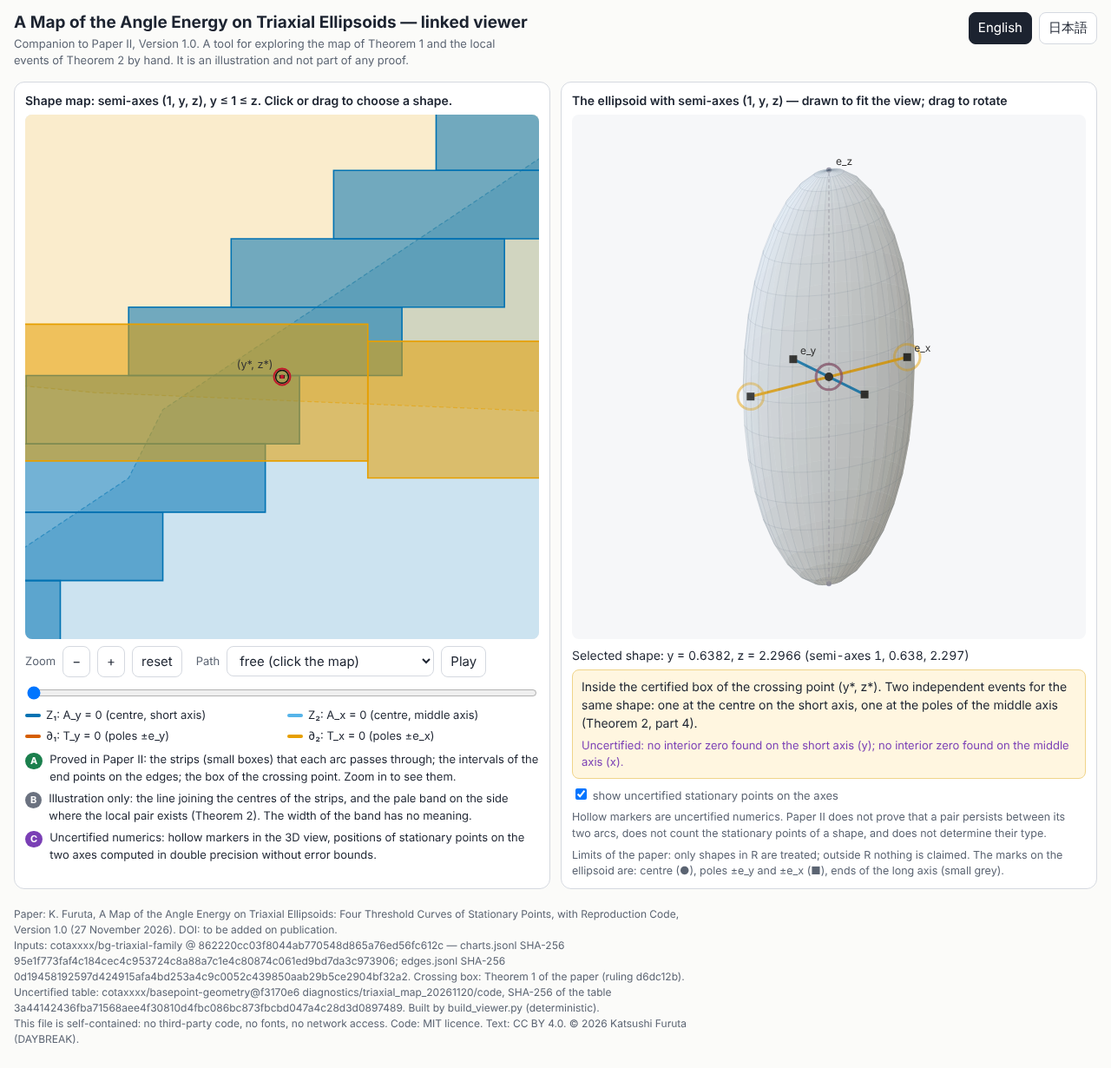
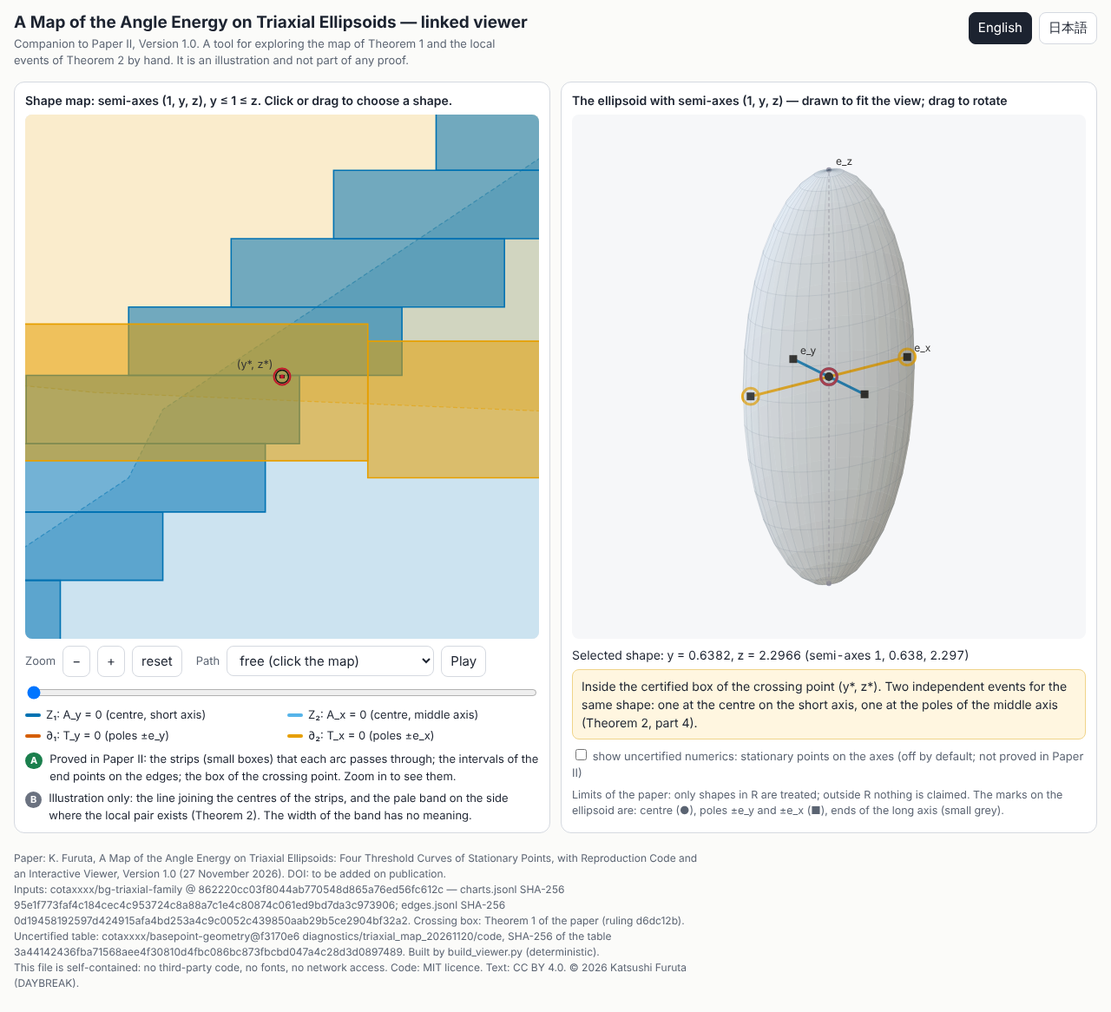
Paper II viewer, fix 1: 'transversally', uncertified layer off by default with an in-picture label, new paper title, README notes
Claude-Session: https://claude.ai/code/session_01G9KpGsvU4kP8626nKD7BmQ

diff --git a/viewer/paper2_viewer.html b/viewer/paper2_viewer.html
@@ -73,7 +73,7 @@ svg text{font:12px system-ui,sans-serif;fill:#333}
     <canvas id="view"></canvas>
     <div id="status"></div>
     <div id="event"></div>
-    <div class="row" id="uncRow"><label><input type="checkbox" id="unc" checked> <span data-t="uncToggle"></span></label></div>
+    <div class="row" id="uncRow"><label><input type="checkbox" id="unc"> <span data-t="uncToggle"></span></label></div>
     <div class="note" data-t="uncNote" id="uncNote"></div>
     <div class="note" data-t="scope"></div>
   </section>
@@ -105,17 +105,18 @@ en:{
  xl:"y  (short semi-axis; middle semi-axis = 1)", yl:"z  (long semi-axis)",
  status:(y,z)=>`Selected shape:  y = ${y.toFixed(4)},  z = ${z.toFixed(4)}    (semi-axes 1, ${y.toFixed(3)}, ${z.toFixed(3)})`,
  evNone:"This shape lies in no certified strip. Paper II makes no statement about the number of stationary points of a single shape.",
- evZ:(n,ax,A)=>`In a certified strip of ${n}. The arc ${n} passes through this strip. When the shape crosses it, exactly one pair of stationary points on the ${ax} is born at the centre or absorbed by it; near the centre the pair exists on the side ${A} > 0 (Theorem 2, part 1).`,
- evD:(n,ax,p,Tn)=>`In a certified strip of ${n}. The arc ${n} passes through this strip. When the shape crosses it, exactly one pair of stationary points on the ${ax} enters or leaves through the poles ${p}; near the poles it is inside on the side ${Tn} < 0 (Theorem 2, part 2).`,
+ evZ:(n,ax,A)=>`In a certified strip of ${n}. The arc ${n} passes through this strip. When the shape crosses the arc transversally, exactly one pair of stationary points on the ${ax} is born at the centre or absorbed by it; near the centre the pair exists on the side ${A} > 0 (Theorem 2, part 1).`,
+ evD:(n,ax,p,Tn)=>`In a certified strip of ${n}. The arc ${n} passes through this strip. When the shape crosses the arc transversally, exactly one pair of stationary points on the ${ax} enters or leaves through the poles ${p}; near the poles it is inside on the side ${Tn} < 0 (Theorem 2, part 2).`,
  short:"short axis (y)", mid:"middle axis (x)",
  evCp:"Prolate threshold c_p on the edge y = 1 (certified interval). Along the edge, a stationary circle in the equatorial plane is born at the centre or absorbed by it (Theorem 2, part 3).",
  evBp:"Prolate threshold b_p on the edge y = 1 (certified interval). Along the edge, a stationary circle in the equatorial plane enters or leaves through the boundary (Theorem 2, part 3).",
  evX:"Inside the certified box of the crossing point (y*, z*). Two independent events for the same shape: one at the centre on the short axis, one at the poles of the middle axis (Theorem 2, part 4).",
- uncToggle:"show uncertified stationary points on the axes",
+ uncToggle:"show uncertified numerics: stationary points on the axes (off by default; not proved in Paper II)",
+ uncMark:"Uncertified numerics — not proved in Paper II",
  uncNote:"Hollow markers are uncertified numerics. Paper II does not prove that a pair persists between its two arcs, does not count the stationary points of a shape, and does not determine their type.",
  uncTxt:(a,b)=>`Uncertified: ${a}; ${b}.`, uncY:r=>`short-axis pair at ±${r.toFixed(3)}·y`, uncX:r=>`middle-axis pair at ±${r.toFixed(3)}`, uncC:r=>`stationary circle of radius ${r.toFixed(3)}`, uncNo:n=>`no interior zero found on the ${n}`,
  scope:"Limits of the paper: only shapes in R are treated; outside R nothing is claimed. The marks on the ellipsoid are: centre (●), poles ±e_y and ±e_x (■), ends of the long axis (small grey).",
- foot1:"Paper: K. Furuta, A Map of the Angle Energy on Triaxial Ellipsoids: Four Threshold Curves of Stationary Points, with Reproduction Code, Version 1.0 (27 November 2026). DOI: to be added on publication.",
+ foot1:"Paper: K. Furuta, A Map of the Angle Energy on Triaxial Ellipsoids: Four Threshold Curves of Stationary Points, with Reproduction Code and an Interactive Viewer, Version 1.0 (27 November 2026). DOI: to be added on publication.",
  foot3:"This file is self-contained: no third-party code, no fonts, no network access. Code: MIT licence. Text: CC BY 4.0. © 2026 Katsushi Furuta (DAYBREAK)."
 },
 ja:{
@@ -134,17 +135,18 @@ ja:{
  xl:"y（短い半軸。中間の半軸 = 1）", yl:"z（長い半軸）",
  status:(y,z)=>`選んだ形：y = ${y.toFixed(4)}、z = ${z.toFixed(4)}　（半軸 1, ${y.toFixed(3)}, ${z.toFixed(3)}）`,
  evNone:"この形は、どの弧の証明済みの帯にも入っていません。論文 II は、一つひとつの形の停留点の個数については何も主張しません。",
- evZ:(n,ax,A)=>`${n} の証明済みの帯の中です。弧 ${n} はこの帯を通ります。形がこの弧を横切るとき、${ax}の上の停留点がちょうど一対、中心で生まれるか中心に吸収されます。中心の近くで対があるのは ${A} > 0 の側です（定理 2 の 1）。`,
- evD:(n,ax,p,Tn)=>`${n} の証明済みの帯の中です。弧 ${n} はこの帯を通ります。形がこの弧を横切るとき、${ax}の上の停留点がちょうど一対、極 ${p} を通って出入りします。極の近くで対が内部にあるのは ${Tn} < 0 の側です（定理 2 の 2）。`,
+ evZ:(n,ax,A)=>`${n} の証明済みの帯の中です。弧 ${n} はこの帯を通ります。形がこの弧を横断的に横切るとき、${ax}の上の停留点がちょうど一対、中心で生まれるか中心に吸収されます。中心の近くで対があるのは ${A} > 0 の側です（定理 2 の 1）。`,
+ evD:(n,ax,p,Tn)=>`${n} の証明済みの帯の中です。弧 ${n} はこの帯を通ります。形がこの弧を横断的に横切るとき、${ax}の上の停留点がちょうど一対、極 ${p} を通って出入りします。極の近くで対が内部にあるのは ${Tn} < 0 の側です（定理 2 の 2）。`,
  short:"短軸（y）", mid:"中間軸（x）",
  evCp:"辺 y = 1 の上の扁長側の閾値 c_p（証明済みの区間）。形が辺に沿って動くとき、赤道面の停留円が中心で生まれるか中心に吸収されます（定理 2 の 3）。",
  evBp:"辺 y = 1 の上の扁長側の閾値 b_p（証明済みの区間）。形が辺に沿って動くとき、赤道面の停留円が境界を通って出入りします（定理 2 の 3）。",
  evX:"交点 (y*, z*) の証明済みの箱の中です。同じ形で二つの独立な出来事が起こります。中心での短軸の出来事と、中間軸の極での出来事です（定理 2 の 4）。",
- uncToggle:"軸の上の停留点（保証のない数値）を表示する",
+ uncToggle:"保証のない数値を表示する：軸の上の停留点（既定では非表示。論文 II は未証明）",
+ uncMark:"保証のない数値（論文 II は未証明）",
  uncNote:"白抜きの印は保証のない数値です。論文 II は、対が二本の弧のあいだで存続することを証明していません。形ごとの停留点の個数も、停留点の種類も決めていません。",
  uncTxt:(a,b)=>`保証のない数値：${a}、${b}。`, uncY:r=>`短軸の対 ±${r.toFixed(3)}·y`, uncX:r=>`中間軸の対 ±${r.toFixed(3)}`, uncC:r=>`半径 ${r.toFixed(3)} の停留円`, uncNo:n=>`${n}の上に内部の零点なし`,
  scope:"論文の範囲：R の中の形だけを扱います。R の外については何も主張しません。楕円体の上の印は、中心（●）、極 ±e_y と ±e_x（■）、長軸の端（小さな灰色）です。",
- foot1:"論文：古田 勝士（K. Furuta）, A Map of the Angle Energy on Triaxial Ellipsoids: Four Threshold Curves of Stationary Points, with Reproduction Code, Version 1.0（2026年11月27日）。DOI：公開後に記入。",
+ foot1:"論文：古田 勝士（K. Furuta）「三軸楕円体の角度エネルギー地図 ― 停留点が出入りする四本の境目（再現コード・ビューア付き）」（A Map of the Angle Energy on Triaxial Ellipsoids: Four Threshold Curves of Stationary Points, with Reproduction Code and an Interactive Viewer）, Version 1.0（2026年11月27日）。DOI：公開後に記入。",
  foot3:"このファイルは単体で完結しています。第三者のコード、フォント、外部への通信はありません。コード：MIT ライセンス。文章：CC BY 4.0。© 2026 古田 勝士（DAYBREAK）。"
 }};
 let lang = "en";
@@ -295,6 +297,11 @@ function drawView(time){
   for (const k of quads) if (k.front) { fillQ(k, `rgba(${Math.round(120*k.sh+110)},${Math.round(140*k.sh+100)},${Math.round(175*k.sh+75)},0.26)`); }
   ctx.strokeStyle = "rgba(40,60,90,0.16)"; ctx.lineWidth = 0.6;
   for (const k of quads) if (k.front) { ctx.beginPath(); ctx.moveTo(k.q[0][0], k.q[0][1]); ctx.lineTo(k.q[1][0], k.q[1][1]); ctx.lineTo(k.q[2][0], k.q[2][1]); ctx.stroke(); }
+  if (DATA.unc && $("unc").checked) {     // the label travels with the picture if only the picture is copied
+    const m = T[lang].uncMark; ctx.font = "bold 13px system-ui,sans-serif"; const tw = ctx.measureText(m).width;
+    ctx.fillStyle = "rgba(255,255,255,0.88)"; ctx.fillRect(8, 8, tw + 16, 24); ctx.strokeStyle = "#7a3fb5"; ctx.lineWidth = 1.5; ctx.strokeRect(8, 8, tw + 16, 24);
+    ctx.fillStyle = "#7a3fb5"; ctx.fillText(m, 16, 25);
+  }
   ctx.fillStyle = "#333"; ctx.font = "12px system-ui,sans-serif";
   const lab = (p, s) => { const A = P(p); ctx.fillText(s, A[0] + 8, A[1] - 6); };
   lab([a,0,0], "e_x"); lab([0,b,0], "e_y"); lab([0,0,c], "e_z");
@@ -322,8 +329,11 @@ function applyLang(){
   $("arcs").innerHTML = ""; for (const q of Q) { const s = document.createElement("span"); s.innerHTML = `<i style="background:${COL[q]}"></i>`; s.appendChild(document.createTextNode(t.arc[q])); $("arcs").appendChild(s); }
   $("play").textContent = S.playing ? t.pause : t.play;
   const m = DATA.meta; $("foot2").textContent = (lang === "en" ? "Inputs: " : "入力：") + `${m.repo} @ ${m.ledger_commit} — charts.jsonl SHA-256 ${m.charts_sha256}; edges.jsonl SHA-256 ${m.edges_sha256}. ` + (lang === "en" ? "Crossing box: Theorem 1 of the paper (ruling " : "交点の箱：論文の定理 1（裁定 ") + m.crossing_ruling + (lang === "en" ? "). " : "）。") + (DATA.unc ? (lang === "en" ? "Uncertified table: " : "保証のない数値の表：") + m.unc_source + ". " : "") + (lang === "en" ? "Built by build_viewer.py (deterministic)." : "build_viewer.py で生成（決定的）。");
-  if (!DATA.unc) { $("uncRow").style.display = "none"; $("legCrow").style.display = "none"; $("uncNote").style.display = "none"; }
-  drawMapOverlay(); updateText();
+  syncUnc(); drawMapOverlay(); updateText();
+}
+function syncUnc(){
+  const on = !!DATA.unc && $("unc").checked;
+  $("uncRow").style.display = DATA.unc ? "" : "none"; $("legCrow").style.display = on ? "" : "none"; $("uncNote").style.display = on ? "" : "none";
 }
 // ---------- interaction
 function setShape(y, z){ S.y = clamp(y, 0.25, 1); S.z = clamp(z, 1, 7); drawMapOverlay(); updateText(); }
@@ -344,7 +354,7 @@ $("slider").oninput = e => { if (S.path === 0) { S.path = 1; $("path").value = 1
 function stop(){ S.playing = false; $("play").textContent = T[lang].play; }
 $("play").onclick = () => { if (S.playing) return stop(); if (S.path === 0) { S.path = 3; $("path").value = 3; } if (S.t >= 1) S.t = 0; S.playing = true; $("play").textContent = T[lang].pause; };
 $("bEn").onclick = () => { lang = "en"; applyLang(); }; $("bJa").onclick = () => { lang = "ja"; applyLang(); };
-$("unc").onchange = () => updateText();
+$("unc").onchange = () => { syncUnc(); lastUnc = ""; updateText(); };
 let last = 0;
 function frame(time){
   if (S.playing) { S.t = Math.min(1, S.t + (time - last)/16000); $("slider").value = Math.round(S.t*1000); const p = onPath(S.path, S.t); S.y = p[0]; S.z = p[1]; drawMapOverlay(); if (S.t >= 1) stop(); }

diff --git a/viewer/template.html b/viewer/template.html
@@ -73,7 +73,7 @@ svg text{font:12px system-ui,sans-serif;fill:#333}
     <canvas id="view"></canvas>
     <div id="status"></div>
     <div id="event"></div>
-    <div class="row" id="uncRow"><label><input type="checkbox" id="unc" checked> <span data-t="uncToggle"></span></label></div>
+    <div class="row" id="uncRow"><label><input type="checkbox" id="unc"> <span data-t="uncToggle"></span></label></div>
     <div class="note" data-t="uncNote" id="uncNote"></div>
     <div class="note" data-t="scope"></div>
   </section>
@@ -105,17 +105,18 @@ en:{
  xl:"y  (short semi-axis; middle semi-axis = 1)", yl:"z  (long semi-axis)",
  status:(y,z)=>`Selected shape:  y = ${y.toFixed(4)},  z = ${z.toFixed(4)}    (semi-axes 1, ${y.toFixed(3)}, ${z.toFixed(3)})`,
  evNone:"This shape lies in no certified strip. Paper II makes no statement about the number of stationary points of a single shape.",
- evZ:(n,ax,A)=>`In a certified strip of ${n}. The arc ${n} passes through this strip. When the shape crosses it, exactly one pair of stationary points on the ${ax} is born at the centre or absorbed by it; near the centre the pair exists on the side ${A} > 0 (Theorem 2, part 1).`,
- evD:(n,ax,p,Tn)=>`In a certified strip of ${n}. The arc ${n} passes through this strip. When the shape crosses it, exactly one pair of stationary points on the ${ax} enters or leaves through the poles ${p}; near the poles it is inside on the side ${Tn} < 0 (Theorem 2, part 2).`,
+ evZ:(n,ax,A)=>`In a certified strip of ${n}. The arc ${n} passes through this strip. When the shape crosses the arc transversally, exactly one pair of stationary points on the ${ax} is born at the centre or absorbed by it; near the centre the pair exists on the side ${A} > 0 (Theorem 2, part 1).`,
+ evD:(n,ax,p,Tn)=>`In a certified strip of ${n}. The arc ${n} passes through this strip. When the shape crosses the arc transversally, exactly one pair of stationary points on the ${ax} enters or leaves through the poles ${p}; near the poles it is inside on the side ${Tn} < 0 (Theorem 2, part 2).`,
  short:"short axis (y)", mid:"middle axis (x)",
  evCp:"Prolate threshold c_p on the edge y = 1 (certified interval). Along the edge, a stationary circle in the equatorial plane is born at the centre or absorbed by it (Theorem 2, part 3).",
  evBp:"Prolate threshold b_p on the edge y = 1 (certified interval). Along the edge, a stationary circle in the equatorial plane enters or leaves through the boundary (Theorem 2, part 3).",
  evX:"Inside the certified box of the crossing point (y*, z*). Two independent events for the same shape: one at the centre on the short axis, one at the poles of the middle axis (Theorem 2, part 4).",
- uncToggle:"show uncertified stationary points on the axes",
+ uncToggle:"show uncertified numerics: stationary points on the axes (off by default; not proved in Paper II)",
+ uncMark:"Uncertified numerics — not proved in Paper II",
  uncNote:"Hollow markers are uncertified numerics. Paper II does not prove that a pair persists between its two arcs, does not count the stationary points of a shape, and does not determine their type.",
  uncTxt:(a,b)=>`Uncertified: ${a}; ${b}.`, uncY:r=>`short-axis pair at ±${r.toFixed(3)}·y`, uncX:r=>`middle-axis pair at ±${r.toFixed(3)}`, uncC:r=>`stationary circle of radius ${r.toFixed(3)}`, uncNo:n=>`no interior zero found on the ${n}`,
  scope:"Limits of the paper: only shapes in R are treated; outside R nothing is claimed. The marks on the ellipsoid are: centre (●), poles ±e_y and ±e_x (■), ends of the long axis (small grey).",
- foot1:"Paper: K. Furuta, A Map of the Angle Energy on Triaxial Ellipsoids: Four Threshold Curves of Stationary Points, with Reproduction Code, Version 1.0 (27 November 2026). DOI: to be added on publication.",
+ foot1:"Paper: K. Furuta, A Map of the Angle Energy on Triaxial Ellipsoids: Four Threshold Curves of Stationary Points, with Reproduction Code and an Interactive Viewer, Version 1.0 (27 November 2026). DOI: to be added on publication.",
  foot3:"This file is self-contained: no third-party code, no fonts, no network access. Code: MIT licence. Text: CC BY 4.0. © 2026 Katsushi Furuta (DAYBREAK)."
 },
 ja:{
@@ -134,17 +135,18 @@ ja:{
  xl:"y（短い半軸。中間の半軸 = 1）", yl:"z（長い半軸）",
  status:(y,z)=>`選んだ形：y = ${y.toFixed(4)}、z = ${z.toFixed(4)}　（半軸 1, ${y.toFixed(3)}, ${z.toFixed(3)}）`,
  evNone:"この形は、どの弧の証明済みの帯にも入っていません。論文 II は、一つひとつの形の停留点の個数については何も主張しません。",
- evZ:(n,ax,A)=>`${n} の証明済みの帯の中です。弧 ${n} はこの帯を通ります。形がこの弧を横切るとき、${ax}の上の停留点がちょうど一対、中心で生まれるか中心に吸収されます。中心の近くで対があるのは ${A} > 0 の側です（定理 2 の 1）。`,
- evD:(n,ax,p,Tn)=>`${n} の証明済みの帯の中です。弧 ${n} はこの帯を通ります。形がこの弧を横切るとき、${ax}の上の停留点がちょうど一対、極 ${p} を通って出入りします。極の近くで対が内部にあるのは ${Tn} < 0 の側です（定理 2 の 2）。`,
+ evZ:(n,ax,A)=>`${n} の証明済みの帯の中です。弧 ${n} はこの帯を通ります。形がこの弧を横断的に横切るとき、${ax}の上の停留点がちょうど一対、中心で生まれるか中心に吸収されます。中心の近くで対があるのは ${A} > 0 の側です（定理 2 の 1）。`,
+ evD:(n,ax,p,Tn)=>`${n} の証明済みの帯の中です。弧 ${n} はこの帯を通ります。形がこの弧を横断的に横切るとき、${ax}の上の停留点がちょうど一対、極 ${p} を通って出入りします。極の近くで対が内部にあるのは ${Tn} < 0 の側です（定理 2 の 2）。`,
  short:"短軸（y）", mid:"中間軸（x）",
  evCp:"辺 y = 1 の上の扁長側の閾値 c_p（証明済みの区間）。形が辺に沿って動くとき、赤道面の停留円が中心で生まれるか中心に吸収されます（定理 2 の 3）。",
  evBp:"辺 y = 1 の上の扁長側の閾値 b_p（証明済みの区間）。形が辺に沿って動くとき、赤道面の停留円が境界を通って出入りします（定理 2 の 3）。",
  evX:"交点 (y*, z*) の証明済みの箱の中です。同じ形で二つの独立な出来事が起こります。中心での短軸の出来事と、中間軸の極での出来事です（定理 2 の 4）。",
- uncToggle:"軸の上の停留点（保証のない数値）を表示する",
+ uncToggle:"保証のない数値を表示する：軸の上の停留点（既定では非表示。論文 II は未証明）",
+ uncMark:"保証のない数値（論文 II は未証明）",
  uncNote:"白抜きの印は保証のない数値です。論文 II は、対が二本の弧のあいだで存続することを証明していません。形ごとの停留点の個数も、停留点の種類も決めていません。",
  uncTxt:(a,b)=>`保証のない数値：${a}、${b}。`, uncY:r=>`短軸の対 ±${r.toFixed(3)}·y`, uncX:r=>`中間軸の対 ±${r.toFixed(3)}`, uncC:r=>`半径 ${r.toFixed(3)} の停留円`, uncNo:n=>`${n}の上に内部の零点なし`,
  scope:"論文の範囲：R の中の形だけを扱います。R の外については何も主張しません。楕円体の上の印は、中心（●）、極 ±e_y と ±e_x（■）、長軸の端（小さな灰色）です。",
- foot1:"論文：古田 勝士（K. Furuta）, A Map of the Angle Energy on Triaxial Ellipsoids: Four Threshold Curves of Stationary Points, with Reproduction Code, Version 1.0（2026年11月27日）。DOI：公開後に記入。",
+ foot1:"論文：古田 勝士（K. Furuta）「三軸楕円体の角度エネルギー地図 ― 停留点が出入りする四本の境目（再現コード・ビューア付き）」（A Map of the Angle Energy on Triaxial Ellipsoids: Four Threshold Curves of Stationary Points, with Reproduction Code and an Interactive Viewer）, Version 1.0（2026年11月27日）。DOI：公開後に記入。",
  foot3:"このファイルは単体で完結しています。第三者のコード、フォント、外部への通信はありません。コード：MIT ライセンス。文章：CC BY 4.0。© 2026 古田 勝士（DAYBREAK）。"
 }};
 let lang = "en";
@@ -295,6 +297,11 @@ function drawView(time){
   for (const k of quads) if (k.front) { fillQ(k, `rgba(${Math.round(120*k.sh+110)},${Math.round(140*k.sh+100)},${Math.round(175*k.sh+75)},0.26)`); }
   ctx.strokeStyle = "rgba(40,60,90,0.16)"; ctx.lineWidth = 0.6;
   for (const k of quads) if (k.front) { ctx.beginPath(); ctx.moveTo(k.q[0][0], k.q[0][1]); ctx.lineTo(k.q[1][0], k.q[1][1]); ctx.lineTo(k.q[2][0], k.q[2][1]); ctx.stroke(); }
+  if (DATA.unc && $("unc").checked) {     // the label travels with the picture if only the picture is copied
+    const m = T[lang].uncMark; ctx.font = "bold 13px system-ui,sans-serif"; const tw = ctx.measureText(m).width;
+    ctx.fillStyle = "rgba(255,255,255,0.88)"; ctx.fillRect(8, 8, tw + 16, 24); ctx.strokeStyle = "#7a3fb5"; ctx.lineWidth = 1.5; ctx.strokeRect(8, 8, tw + 16, 24);
+    ctx.fillStyle = "#7a3fb5"; ctx.fillText(m, 16, 25);
+  }
   ctx.fillStyle = "#333"; ctx.font = "12px system-ui,sans-serif";
   const lab = (p, s) => { const A = P(p); ctx.fillText(s, A[0] + 8, A[1] - 6); };
   lab([a,0,0], "e_x"); lab([0,b,0], "e_y"); lab([0,0,c], "e_z");
@@ -322,8 +329,11 @@ function applyLang(){
   $("arcs").innerHTML = ""; for (const q of Q) { const s = document.createElement("span"); s.innerHTML = `<i style="background:${COL[q]}"></i>`; s.appendChild(document.createTextNode(t.arc[q])); $("arcs").appendChild(s); }
   $("play").textContent = S.playing ? t.pause : t.play;
   const m = DATA.meta; $("foot2").textContent = (lang === "en" ? "Inputs: " : "入力：") + `${m.repo} @ ${m.ledger_commit} — charts.jsonl SHA-256 ${m.charts_sha256}; edges.jsonl SHA-256 ${m.edges_sha256}. ` + (lang === "en" ? "Crossing box: Theorem 1 of the paper (ruling " : "交点の箱：論文の定理 1（裁定 ") + m.crossing_ruling + (lang === "en" ? "). " : "）。") + (DATA.unc ? (lang === "en" ? "Uncertified table: " : "保証のない数値の表：") + m.unc_source + ". " : "") + (lang === "en" ? "Built by build_viewer.py (deterministic)." : "build_viewer.py で生成（決定的）。");
-  if (!DATA.unc) { $("uncRow").style.display = "none"; $("legCrow").style.display = "none"; $("uncNote").style.display = "none"; }
-  drawMapOverlay(); updateText();
+  syncUnc(); drawMapOverlay(); updateText();
+}
+function syncUnc(){
+  const on = !!DATA.unc && $("unc").checked;
+  $("uncRow").style.display = DATA.unc ? "" : "none"; $("legCrow").style.display = on ? "" : "none"; $("uncNote").style.display = on ? "" : "none";
 }
 // ---------- interaction
 function setShape(y, z){ S.y = clamp(y, 0.25, 1); S.z = clamp(z, 1, 7); drawMapOverlay(); updateText(); }
@@ -344,7 +354,7 @@ $("slider").oninput = e => { if (S.path === 0) { S.path = 1; $("path").value = 1
 function stop(){ S.playing = false; $("play").textContent = T[lang].play; }
 $("play").onclick = () => { if (S.playing) return stop(); if (S.path === 0) { S.path = 3; $("path").value = 3; } if (S.t >= 1) S.t = 0; S.playing = true; $("play").textContent = T[lang].pause; };
 $("bEn").onclick = () => { lang = "en"; applyLang(); }; $("bJa").onclick = () => { lang = "ja"; applyLang(); };
-$("unc").onchange = () => updateText();
+$("unc").onchange = () => { syncUnc(); lastUnc = ""; updateText(); };
 let last = 0;
 function frame(time){
   if (S.playing) { S.t = Math.min(1, S.t + (time - last)/16000); $("slider").value = Math.round(S.t*1000); const p = onPath(S.path, S.t); S.y = p[0]; S.z = p[1]; drawMapOverlay(); if (S.t >= 1) stop(); }

diff --git a/viewer/checks/browser_check.js b/viewer/checks/browser_check.js
@@ -27,6 +27,9 @@ const path = require('path'), fs = require('fs');
         V.setShape(0.8, 1.6); e = V.events(); r.generic_point = { any: Object.values(e).some(Boolean), text: document.getElementById('event').textContent.slice(0, 60) };
         V.setShape(0.1, 9); r.clamped_to_R = [V.S.y, V.S.z];
         r.strip_rects_in_svg = document.querySelectorAll('#map g rect').length;
+        const box = document.getElementById('unc'), vis = id => getComputedStyle(document.getElementById(id)).display !== 'none';
+        V.setShape(0.6, 2.05);
+        r.uncertified_default = { checked: box.checked, legend_C_visible: vis('legCrow'), note_visible: vis('uncNote') };
         return r;
       });
     }
@@ -37,7 +40,12 @@ const path = require('path'), fs = require('fs');
       const f = `${name}_${lang}.png`; await page.screenshot({ path: path.join(out, f), fullPage: true }); report.screens.push(f);
     }
     if (name === 'desktop') {
-      await page.click('#bEn');
+      await page.click('#bEn'); await page.waitForTimeout(200);
+      report.functional.uncertified_default.event_text_has_uncertified_line = await page.evaluate(() => /Uncertified/.test(document.getElementById('event').textContent));
+      await page.check('#unc'); await page.waitForTimeout(300);
+      report.functional.uncertified_checked = await page.evaluate(() => ({ legend_C_visible: getComputedStyle(document.getElementById('legCrow')).display !== 'none', note_visible: getComputedStyle(document.getElementById('uncNote')).display !== 'none', event_text_has_uncertified_line: /Uncertified/.test(document.getElementById('event').textContent) }));
+      await page.screenshot({ path: path.join(out, 'desktop_en_uncertified_on.png'), fullPage: true }); report.screens.push('desktop_en_uncertified_on.png');
+      await page.uncheck('#unc'); await page.waitForTimeout(200);
       await page.evaluate(() => { const D = window.__viewer.DATA; window.__viewer.setShape((D.cross.y[0] + D.cross.y[1]) / 2, (D.cross.z[0] + D.cross.z[1]) / 2); });
       await page.click('#zIn'); await page.click('#zIn'); await page.click('#zIn'); await page.waitForTimeout(250);
       await page.screenshot({ path: path.join(out, 'desktop_en_zoom64_crossing.png'), fullPage: true }); report.screens.push('desktop_en_zoom64_crossing.png');

diff --git a/viewer/README.md b/viewer/README.md
@@ -1,5 +1,7 @@
 # 論文 II の連動ビューア
 
+論文：A Map of the Angle Energy on Triaxial Ellipsoids: Four Threshold Curves of Stationary Points, with Reproduction Code and an Interactive Viewer（三軸楕円体の角度エネルギー地図 ― 停留点が出入りする四本の境目（再現コード・ビューア付き））
+
 2026-11-27 ／ Claude Code ／ 依頼：chat「Claude Code への依頼書：論文 II の連動ビューア（デモソフト）の完成」
 
 `paper2_viewer.html` を開くと動く。1 つのファイルで完結し、外部の読み込みはない。大きさは約 107 KB。
@@ -20,9 +22,11 @@
 |---|---|---|
 | A　証明済み | 各弧が通る帯の箱（Z₁ 276、Z₂ 154、∂₁ 111、∂₂ 71 本）、辺の上の端点の区間 8 つ、交点の箱 | v2 の台帳の `charts.jsonl`（status = CHART）と `edges.jsonl`（root_interval）の、正確な二進有理数。交点の箱は論文 II v1.0 の定理 1 の区間（裁定 `d6dc12b`） |
 | B　説明用 | 帯の中心を結んだ破線、対がある側を示す薄い帯 | 線は帯の中心を鎖の順につないだもの。薄い帯の向きは定理 2（中心は A_i > 0 の側、極は T_i < 0 の側）で、幅は論文の図 2 と同じ値。幅に意味はない |
-| C　保証のない数値 | 3D 表示の白抜きの印（軸の上の停留点の位置） | `uncertified_axis_table.py`。倍精度、誤差評価なし。任意の項目で、チェックを外せば消える |
+| C　保証のない数値 | 3D 表示の白抜きの印（軸の上の停留点の位置） | `uncertified_axis_table.py`。倍精度、誤差評価なし。**既定では非表示**（Judge 裁定）。チェックを入れたときだけ、印、凡例 C、注記、出来事の欄の「Uncertified」の行が出る。表示しているあいだは、3D の絵の中にも「Uncertified numerics — not proved in Paper II／保証のない数値（論文 II は未証明）」と描く |
 
 選んだ形が帯の箱の中にあるとき、右の面で、定理 2 のどの出来事の場所かを強調する（Z₁・Z₂ は中心とその軸、∂₁・∂₂ はその極、辺 y = 1 の c_p・b_p は赤道面の円、交点の箱は中心と極の両方）。文面は「この帯を弧が通る」「形が弧を横切るとき、対がちょうど一対、出入りする」までで、その形が弧の上にあるとは言わない。
+
+左の辺 y = 1/4 の上の二つの印（Z₂ と ∂₂ の端）は、端点の区間の中点に置いた説明用（B）である。証明済みなのは区間（A。辺の上の太い線分）のほうである。辺 y = 1 と z = 1 の上の四つの印（c_o、b_o、b_p、c_p）は、論文 I の参考小数の位置に置いてあり、これも証明済みなのは区間である。
 
 画面に出していないもの：R の外、領域ごとの停留点の個数、領域の塗り分け、対が二本の弧のあいだで存続すること、停留点の種類。
 
@@ -35,7 +39,13 @@
 - 論文 I の閾値の参考小数（印の位置）：c_o 0.40795886、b_o 0.64354577、b_p 2.06538229、c_p 4.72438340。
 - 保証のない数値の表：`data/uncertified_axis_points.json`。計算に使ったのは、最初の三軸の地図の求積コード（`cotaxxxx/basepoint-geometry`、commit `f3170e6`、`diagnostics/triaxial_map_20261120/code`）。作る側のコードとは別の実装である。研究用 PC は使っていない（46 × 61 = 2,806 形、数分）。
 
-ビルドは 2 つの入力の SHA-256 を照合してから書き出す。入力のコミットと SHA-256 は、画面の下にも出る。DOI は「公開後に記入」としてある（`template.html` の `foot1` の 2 か所）。
+ビルドは 2 つの入力の SHA-256 を照合してから書き出す。入力のコミットと SHA-256 は、画面の下にも出る。
+
+公開のときに差し替える所：
+
+- **DOI と題名**：`template.html` の中の `foot1` の 2 か所（`T.en` の `foot1:` と `T.ja` の `foot1:`）。いまは「DOI: to be added on publication.」「DOI：公開後に記入。」としてある。
+- **論文の参照先コミット**：`build_viewer.py` の `meta=dict(...)` の中の `paper="Paper II v1.0 (69ff74e5…)"` の 1 か所。この値は HTML に埋め込まれるデータ（`DATA.meta.paper`）に入るが、画面には出していない。組み直し後の番号に書き換えてビルドし直せば差し替わる。
+- 画面の下に出る入力のコミット（台帳の `862220c…`）は `build_viewer.py` の `LEDGER_COMMIT`、交点の裁定番号は同じ `meta` の `crossing_ruling` である。
 
 ## 作り直し方
 

diff --git a/viewer/CHECK_REPORT.md b/viewer/CHECK_REPORT.md
@@ -32,3 +32,19 @@
 
 - 同じ入力で 2 回ビルドし、HTML の SHA-256 が一致した。
 - 大きさは 104 KB（目標は 5 MB 以下）。Plotly は使っていない。
+
+## 5. 修正 1（2026-11-27、依頼 `c7752743` の 5 点）
+
[1 lines of base64/hex data omitted]
+
+| 修正 | 内容 | 確認 |
+|---|---|---|
+| 1 | 帯の中の文に「横断的に」を入れた（英語 transversally、日本語 横断的に。Z と ∂ の両方） | 画面の写しで確認 |
+| 2 | 保証のない数値の層を既定で非表示にした。チェックを外しているあいだは、白抜きの印、凡例 C、注記、「Uncertified」の行を出さない。チェックを入れているあいだは、3D の絵の中の左上に「Uncertified numerics — not proved in Paper II／保証のない数値（論文 II は未証明）」と描く | 既定：チェック false、凡例 C の表示 false、注記の表示 false、「Uncertified」の行 false。チェック後：true、true、true |
+| 3 | README に、左の辺 y = 1/4 の二つの印は区間の中点に置いた説明用（B）で、証明済みなのは区間（A）であることを書いた | README |
+| 4 | README に、公開のときに差し替える所（DOI と題名は `template.html` の `foot1` の 2 か所、論文の参照先コミットは `build_viewer.py` の `meta` の `paper`）を書いた。DOI は「公開後に記入」のまま | README |
+| 5 | フッターの論文の題名を新しい題名にした。日本語の表示では日本語の題名を先に出し、英語の題名をかっこに入れた。README の冒頭にも書いた | 画面の写しで確認 |
+
+画面の写し：既定（チェックなし）は `checks/screens/desktop_en.png`、チェックを入れた画面は `checks/screens/desktop_en_uncertified_on.png`。ほかの 4 枚も既定の状態で撮り直した。
+
+外部への要求は 0 件、コンソールのエラーは 0 件、HTML の中の外部参照は 0 件で、変わらない。フッターの「保証のない数値の表」の出どころの行は、層の表示・非表示にかかわらず出している（入力の記録として）。
